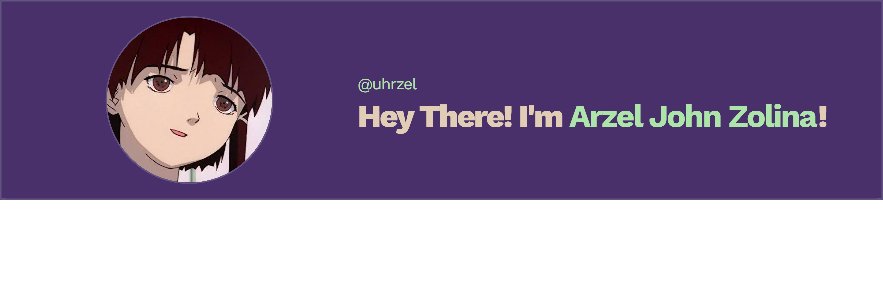
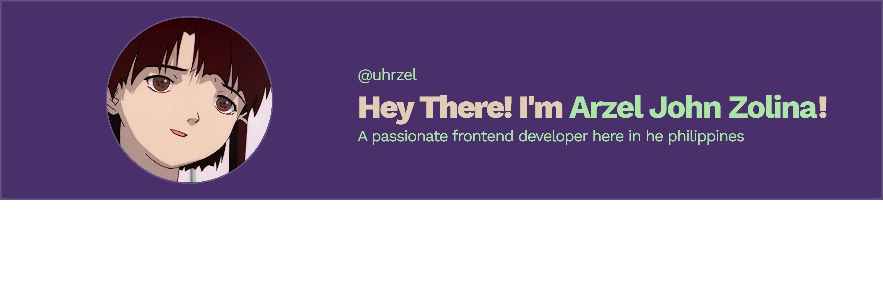
uhrzel

Changed region(s): [[0.3975, 0.24, 0.9479, 0.48]]

diff --git a/README.md b/README.md
@@ -1,5 +1,4 @@
-<p align="center"> <img src="image.png" alt="uhrzel" /> </p>
-<h3 align="left">A passionate frontend developer here in he philippines</h3>
+<h1 align="center"> <img src="image.png" alt="uhrzel" /> </h1>
 <img align ="right" alt = "Coding" width = "400" src = "https://cdn.dribbble.com/users/1282416/screenshots/2859399/media/7876dd3dbc1111578d80369da11b047b.gif">
 <p align="left"> <img src="https://komarev.com/ghpvc/?username=uhrzel&label=Profile%20views&color=0e75b6&style=flat" alt="uhrzel" /> </p>
 
